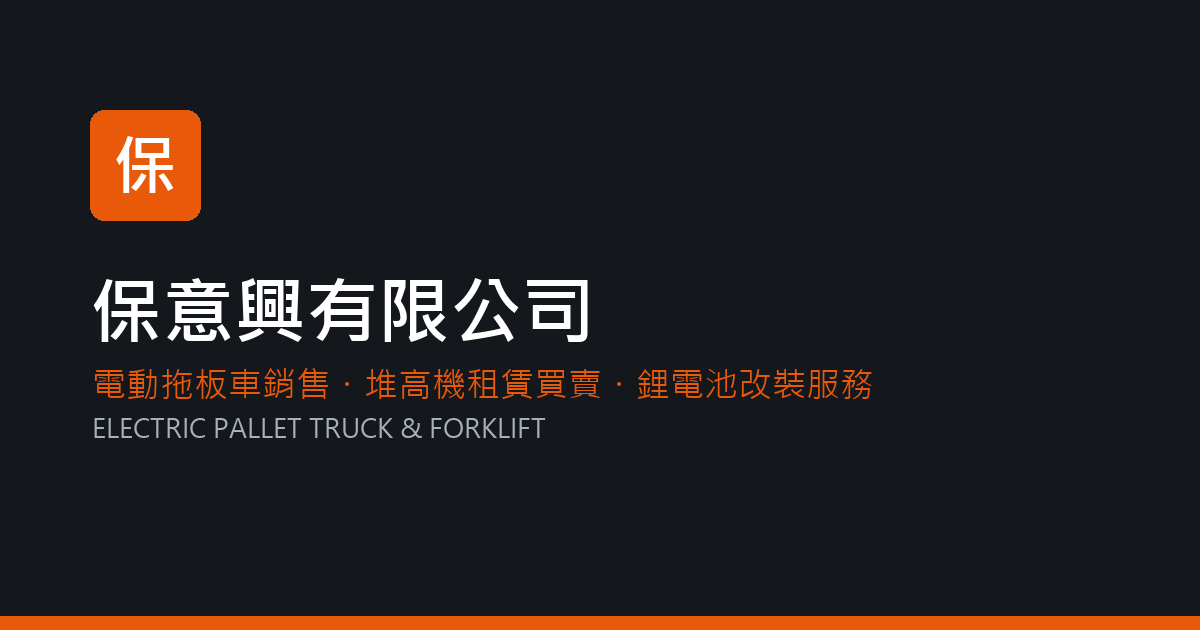
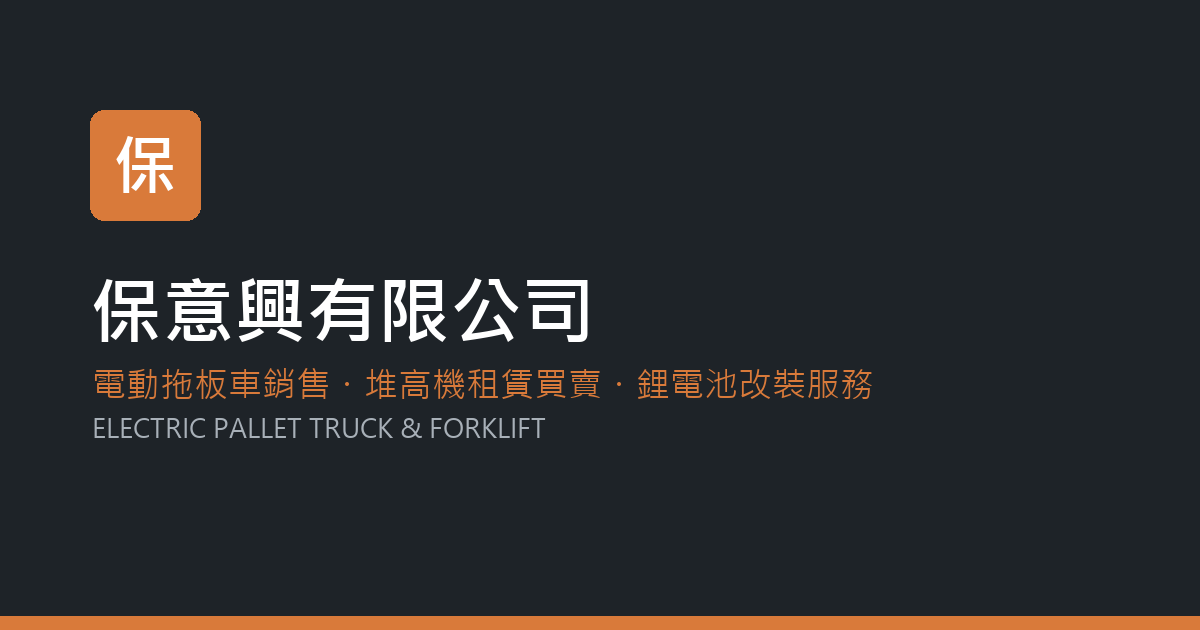
Soften color palette — reduce overly strong contrast
Lighten near-black asphalt/steel tones to a softer charcoal, and
desaturate the vivid safety-orange to a warmer, more muted terracotta.
Updated favicon/OG image to match so brand color stays consistent
site-wide.

diff --git a/css/style.css b/css/style.css
@@ -3,11 +3,11 @@
    plates riveted to forklifts and pallet trucks. */
 
 :root {
-  --asphalt: #14181c;
-  --steel: #1f262d;
-  --steel-2: #2a333c;
-  --orange: #e8590a;
-  --orange-dark: #c04a08;
+  --asphalt: #1e2328;
+  --steel: #272f36;
+  --steel-2: #313a43;
+  --orange: #d97a3a;
+  --orange-dark: #b8631f;
   --green: #3fa66b;
   --green-dark: #2d7d51;
   --paper: #ece7dd;
@@ -16,7 +16,7 @@
   --muted: #6b6558;
   --white: #ffffff;
   --radius: 4px;
-  --shadow: 0 10px 24px rgba(20, 24, 28, 0.1);
+  --shadow: 0 10px 24px rgba(30, 35, 40, 0.1);
   --max-width: 1180px;
 
   --font-display: "Oswald", "Noto Sans TC", sans-serif;
@@ -121,7 +121,7 @@ ul {
 
 .tag {
   display: inline-block;
-  background: rgba(232, 89, 10, 0.1);
+  background: rgba(217, 122, 58, 0.1);
   color: var(--orange);
   font-family: var(--font-display);
   font-weight: 600;
@@ -148,7 +148,7 @@ ul {
 .btn-primary {
   background: var(--orange);
   color: var(--white);
-  box-shadow: 0 6px 18px rgba(232, 89, 10, 0.35);
+  box-shadow: 0 6px 18px rgba(217, 122, 58, 0.35);
 }
 
 .btn-primary:hover {
@@ -311,7 +311,7 @@ ul {
 /* ===== Hero ===== */
 .hero {
   background: var(--asphalt);
-  background-image: radial-gradient(circle at 85% 0%, rgba(232, 89, 10, 0.16), transparent 55%);
+  background-image: radial-gradient(circle at 85% 0%, rgba(217, 122, 58, 0.16), transparent 55%);
   color: var(--white);
   padding: 84px 0;
   position: relative;
@@ -342,8 +342,8 @@ ul {
     135deg,
     var(--orange),
     var(--orange) 10px,
-    #f5a623 10px,
-    #f5a623 20px
+    #e8a75a 10px,
+    #e8a75a 20px
   );
   clip-path: polygon(0 0, 100% 0, 94% 100%, 0% 100%);
 }
@@ -420,7 +420,7 @@ ul {
 
 .page-hero {
   background: var(--asphalt);
-  background-image: radial-gradient(circle at 90% 10%, rgba(232, 89, 10, 0.14), transparent 55%);
+  background-image: radial-gradient(circle at 90% 10%, rgba(217, 122, 58, 0.14), transparent 55%);
   color: var(--white);
   padding: 60px 0;
   text-align: center;
@@ -480,7 +480,7 @@ ul {
 
 .plate:hover {
   transform: translateY(-6px);
-  box-shadow: 0 18px 34px rgba(20, 24, 28, 0.16), inset 0 0 0 1px rgba(255, 255, 255, 0.6);
+  box-shadow: 0 18px 34px rgba(30, 35, 40, 0.16), inset 0 0 0 1px rgba(255, 255, 255, 0.6);
 }
 
 /* ===== Service cards (home) ===== */
@@ -983,7 +983,7 @@ ul {
 .form-group textarea:focus {
   outline: none;
   border-color: var(--orange);
-  box-shadow: 0 0 0 3px rgba(232, 89, 10, 0.15);
+  box-shadow: 0 0 0 3px rgba(217, 122, 58, 0.15);
 }
 
 .form-note {